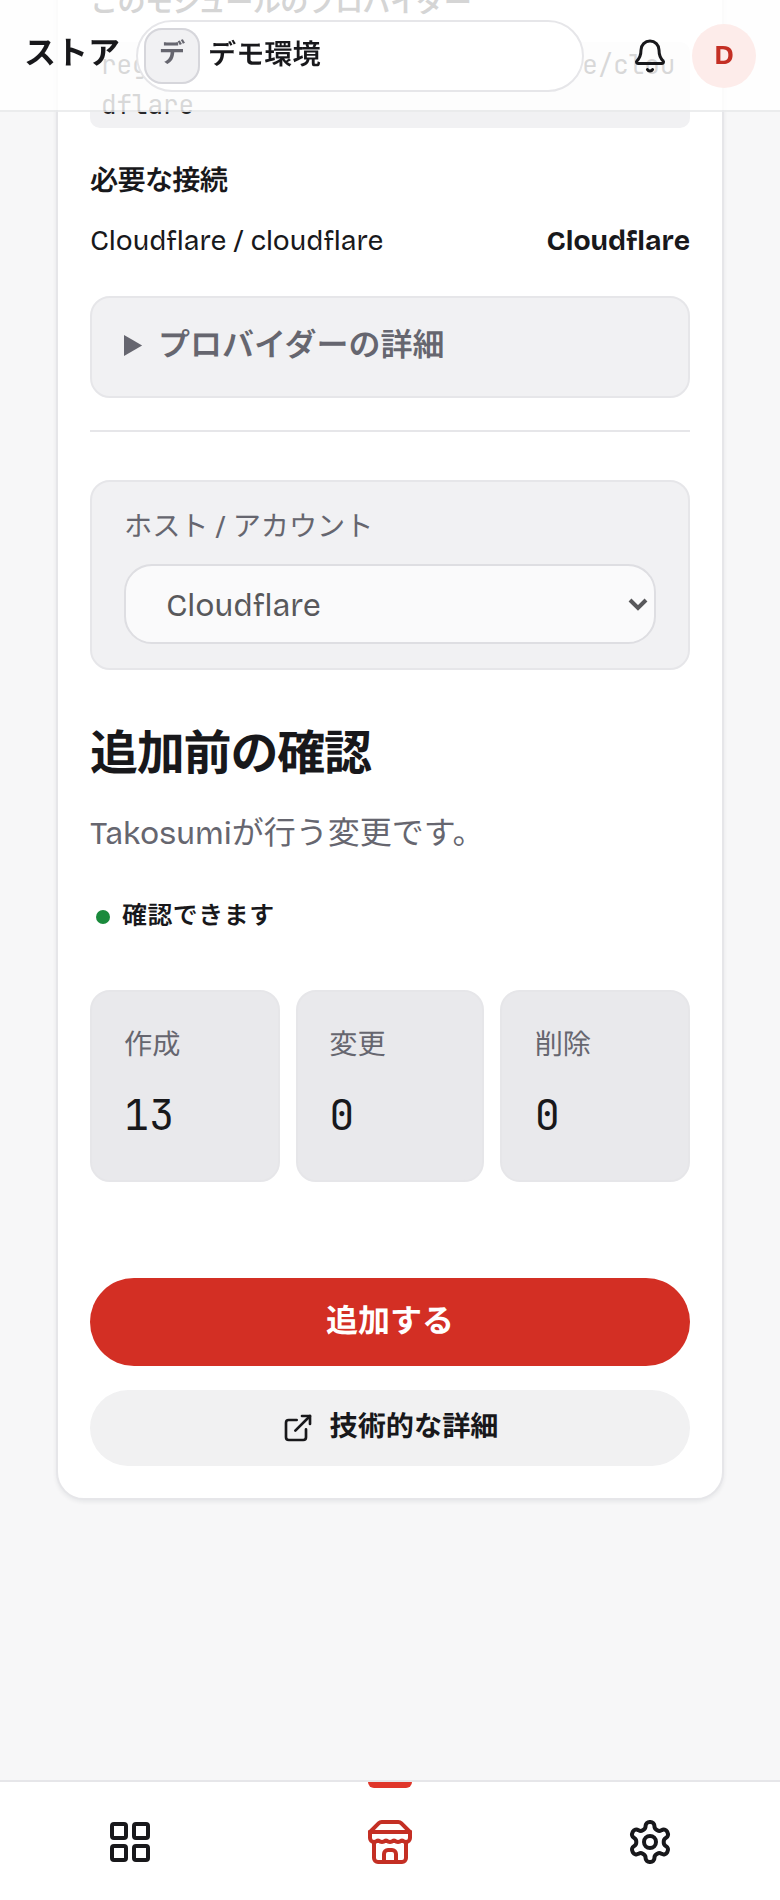
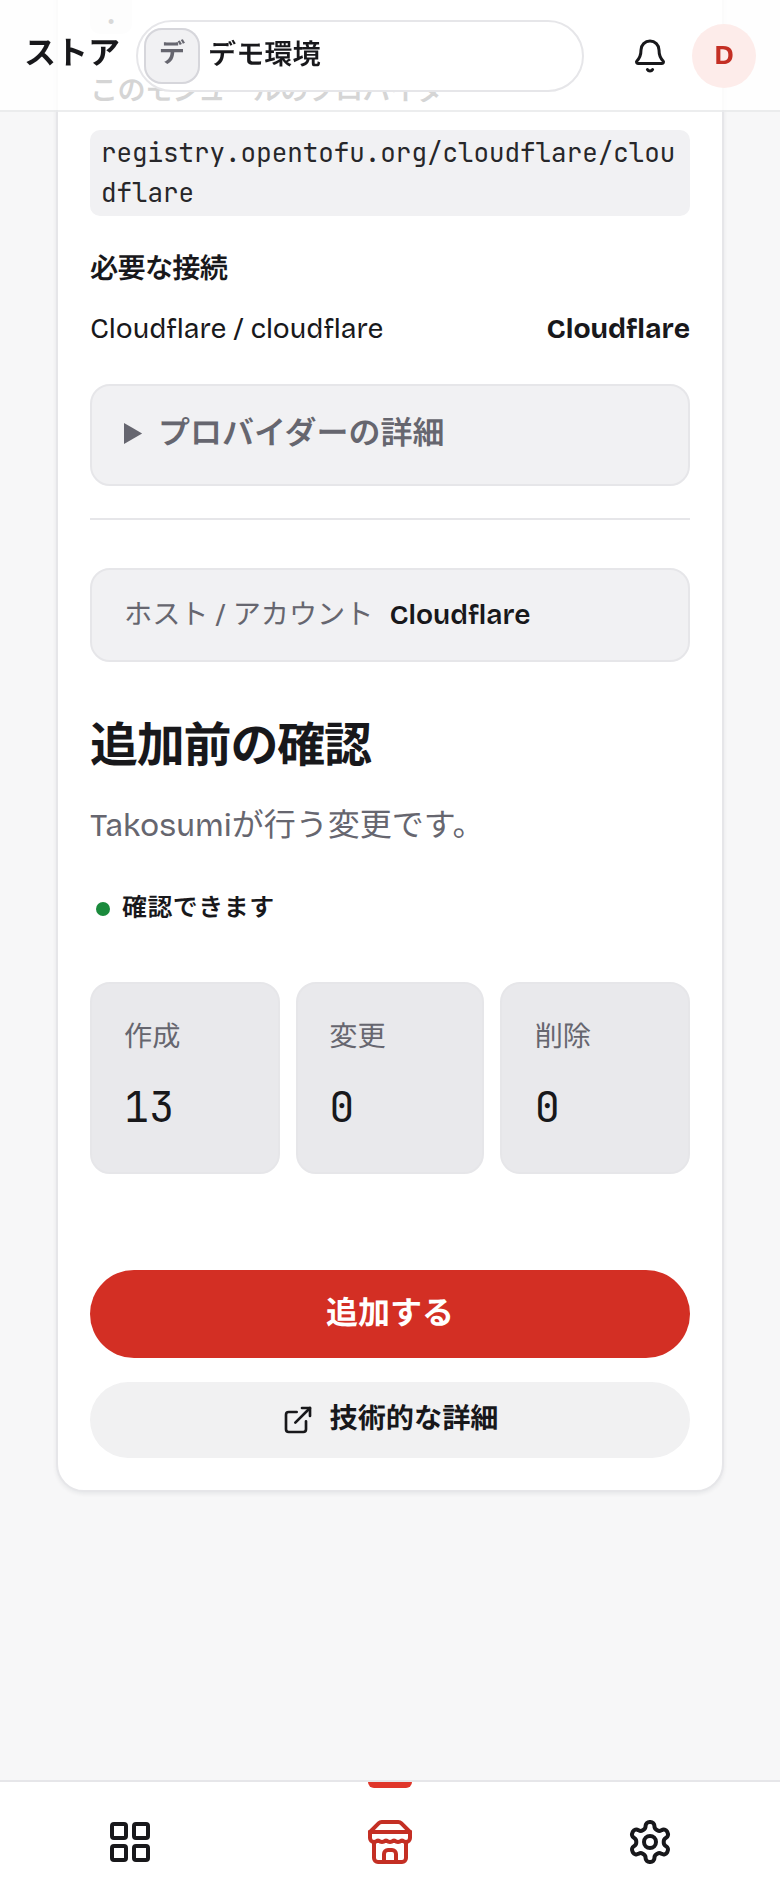
website: recapture the review with the Host / account shown as text
The landing's review image shows the auto-selected connection row. Recapture
it from 245a524a1; every other capture, including the Quickstart's, came out
byte-identical.

diff --git a/website/scripts/capture-product-ui-provenance.md b/website/scripts/capture-product-ui-provenance.md
@@ -82,7 +82,8 @@ requests, and missing product cards fail the capture.
 The four `dashboard-review-*` images, captured on 2026-10-15 from the dashboard
 source at `d128a386f` (after #493 fixed the 「ホスト / アカウント」 row) and
 recaptured on 2026-10-16 from `9f6218bfd` (after #496 changed the review's badge
-from 「成功」 to 「確認できます」), show the
+from 「成功」 to 「確認できます」) and again from `245a524a1` (which shows the
+auto-selected 「ホスト / アカウント」 as text instead of a disabled select), show the
 add flow's 「追加前の確認」 screen for Takos, reached by opening `/new` with an
 example Git URL and pressing 「追加」 in the real dashboard. For this screen and
 the Quickstart screens, the script answers the add flow's API calls in the
